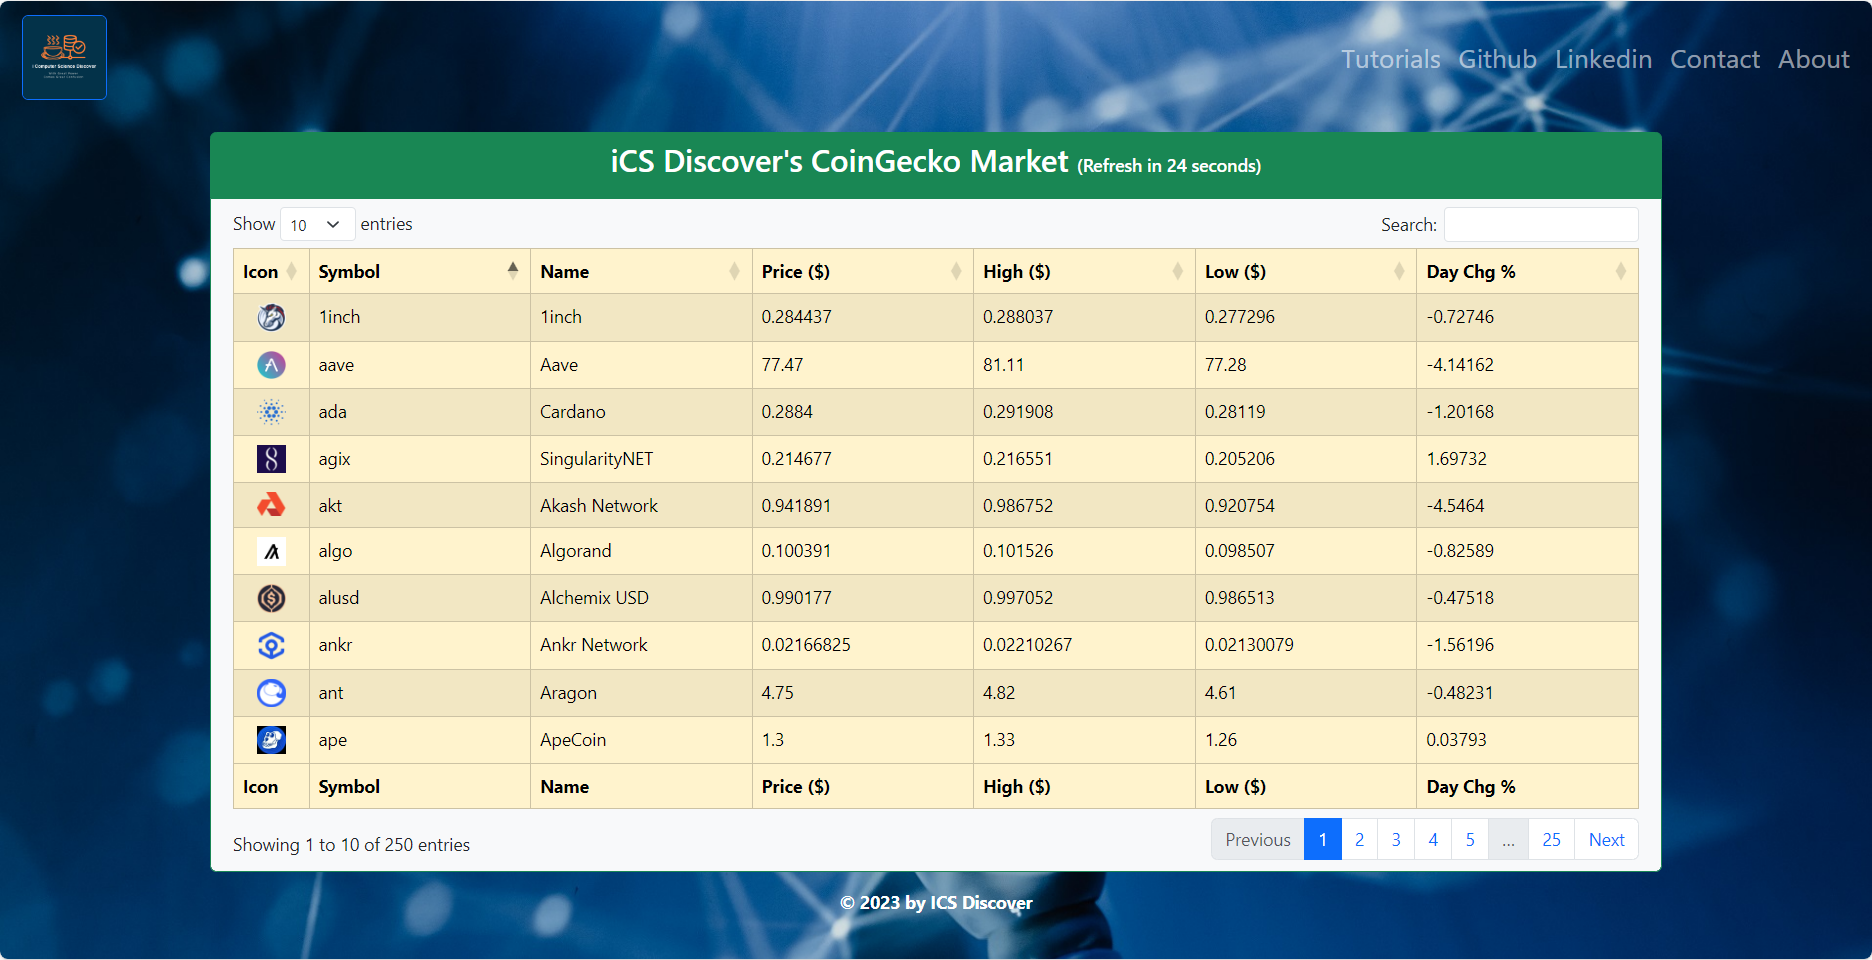
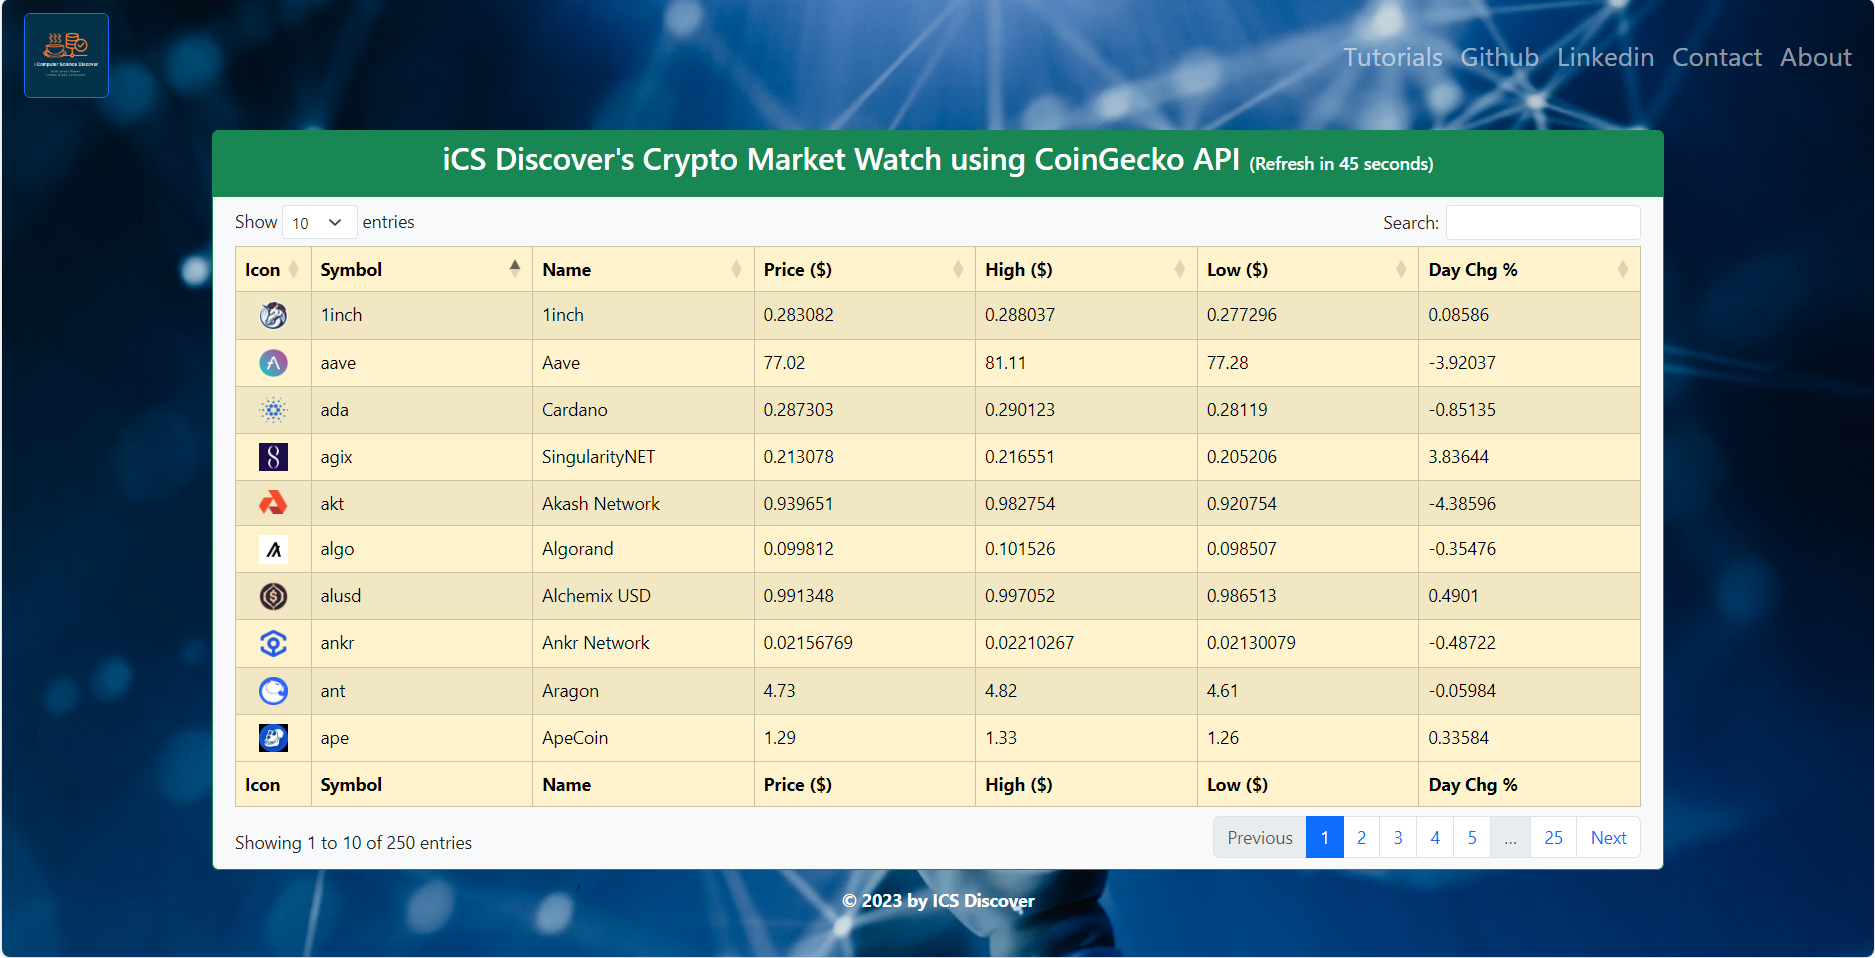
title update

diff --git a/pages/index.js b/pages/index.js
@@ -1,7 +1,7 @@
 import Head from "next/head";
 import CoinGeckoDataTable from "./coingeckodatatable";
 
-const TITLE = "iCS Discover's CoinGecko Market";
+const TITLE = "iCS Discover's Crypto Market Watch using CoinGecko API";
 
 export default function Home() {
   return (
